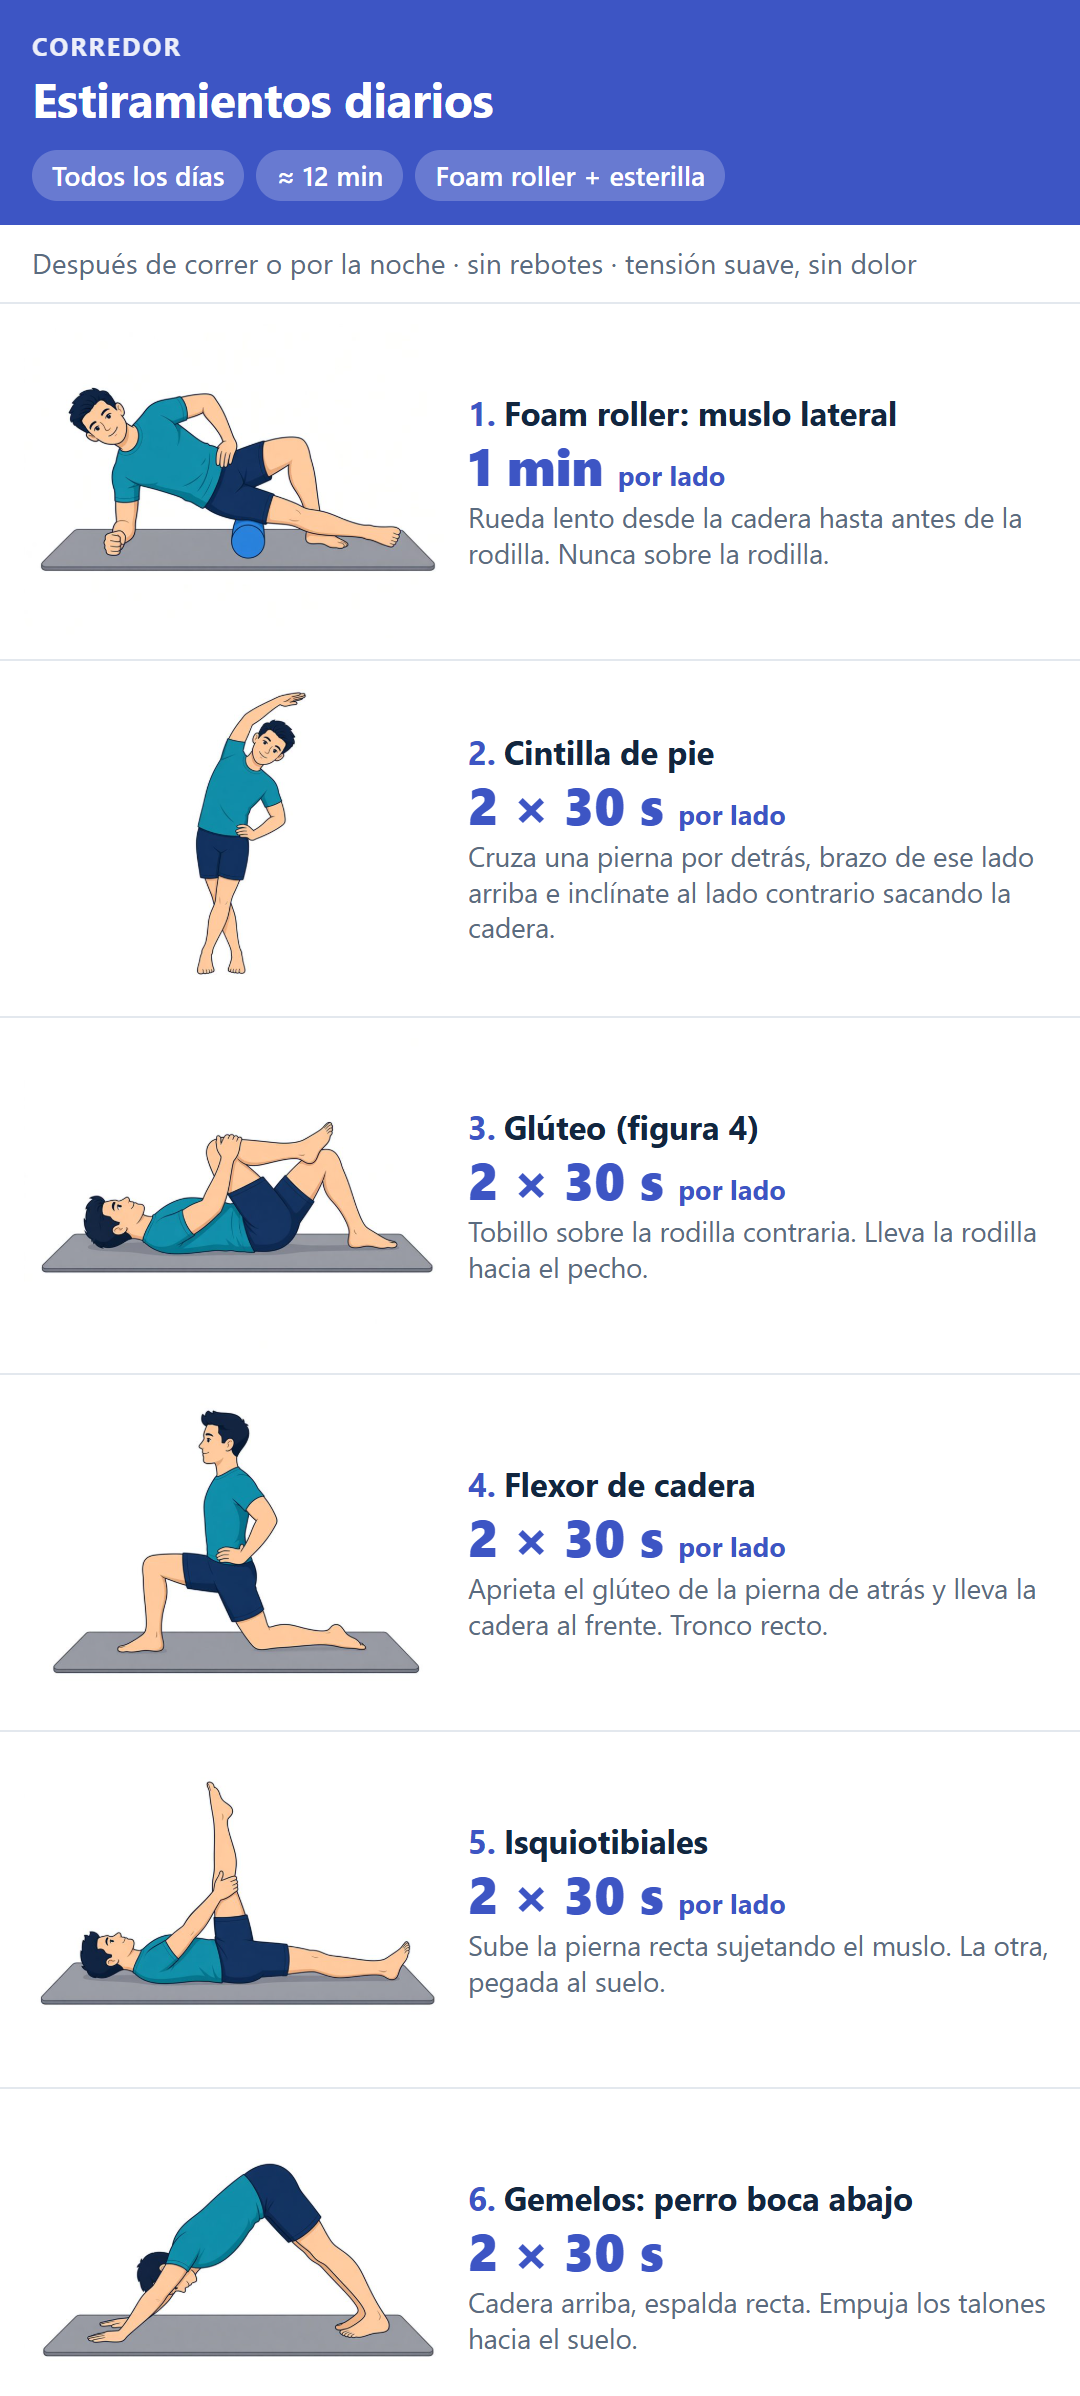
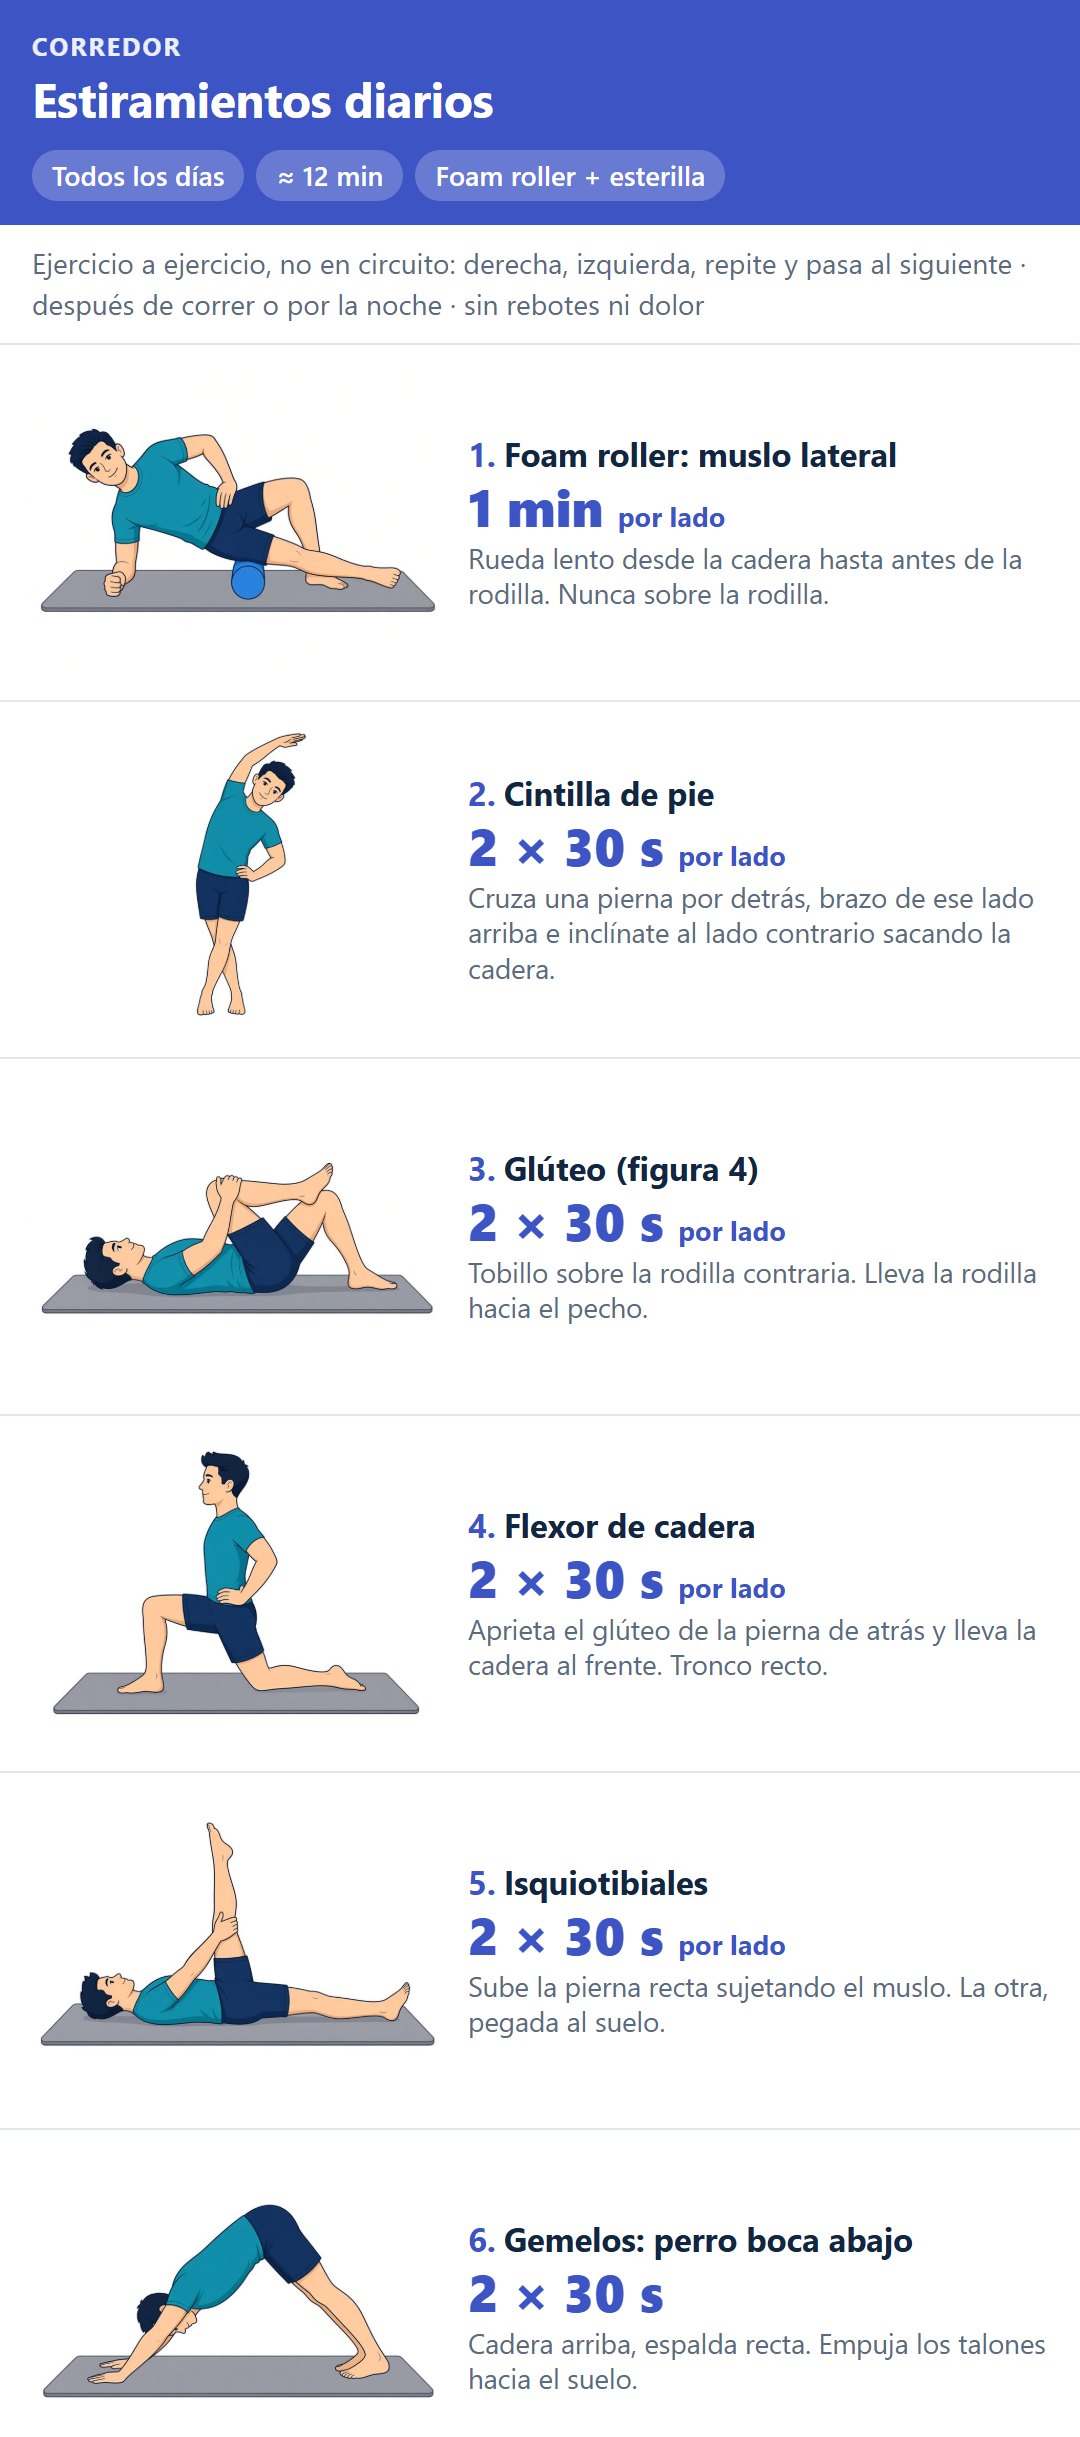
Aclara que no es circuito

diff --git a/index.html b/index.html
@@ -85,7 +85,7 @@ body.solo { background: var(--card); }
 const RUTINAS = [
   { id: 'fuerza', tag: 'Cintilla iliotibial', title: 'Fuerza de cadera',
     chips: ['3–4 días/semana', '≈ 18 min', 'Banda + esterilla'],
-    tip: 'Los dos lados, empieza por la derecha · 30 s de descanso entre series',
+    tip: 'Ejercicio a ejercicio, no en circuito: haz las 3 series y pasa al siguiente · 1 serie = derecha + izquierda · 30&nbsp;s de descanso entre series',
     ex: [
       ['abduccion-lateral', 'Abducción lateral tumbado', '3 × 15', 'por lado', 'Pierna de arriba recta y un poco hacia atrás. Sube 2 s, baja 2 s, sin girar la cadera.'],
       ['pasos-laterales', 'Pasos laterales con banda', '3 × 10 pasos', 'por lado', 'Banda sobre las rodillas, media sentadilla. Rodillas hacia fuera, sin juntar los pies.'],
@@ -94,7 +94,7 @@ const RUTINAS = [
     ] },
   { id: 'estira', tag: 'Corredor', title: 'Estiramientos diarios',
     chips: ['Todos los días', '≈ 12 min', 'Foam roller + esterilla'],
-    tip: 'Después de correr o por la noche · sin rebotes · tensión suave, sin dolor',
+    tip: 'Ejercicio a ejercicio, no en circuito: derecha, izquierda, repite y pasa al siguiente · después de correr o por la noche · sin rebotes ni dolor',
     ex: [
       ['foam-roller', 'Foam roller: muslo lateral', '1 min', 'por lado', 'Rueda lento desde la cadera hasta antes de la rodilla. Nunca sobre la rodilla.'],
       ['estiramiento-cintilla', 'Cintilla de pie', '2 × 30 s', 'por lado', 'Cruza una pierna por detrás, brazo de ese lado arriba e inclínate al lado contrario sacando la cadera.'],
